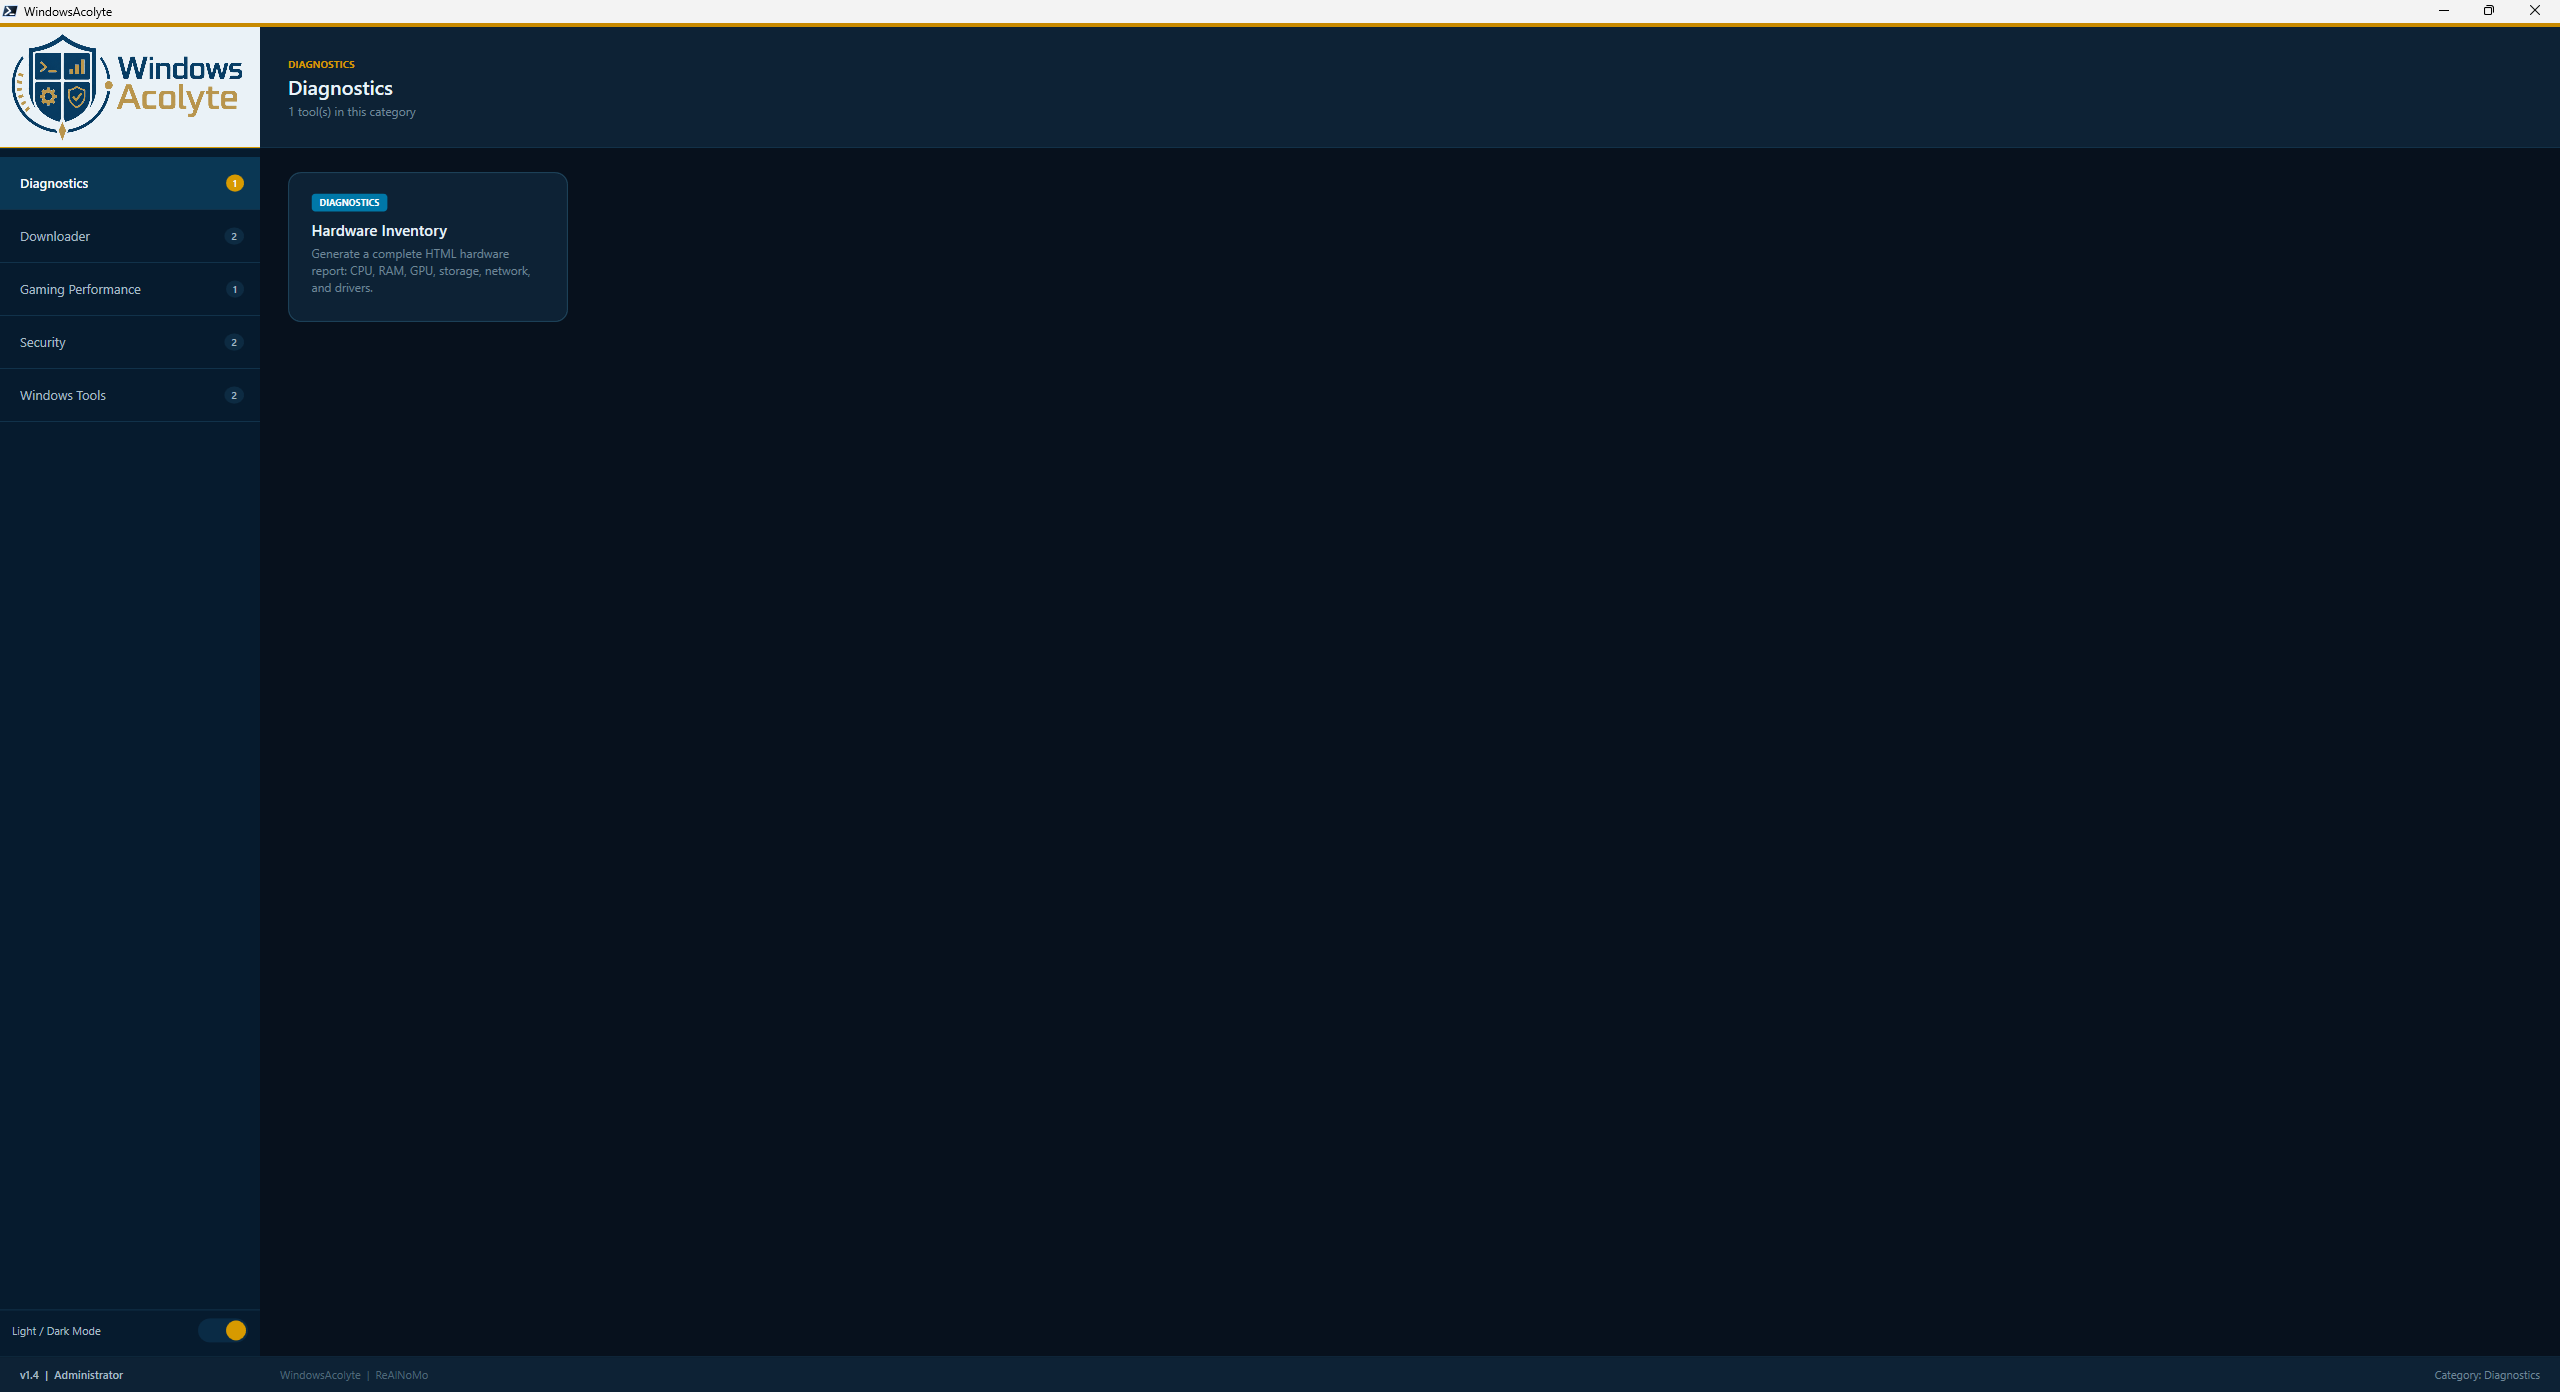
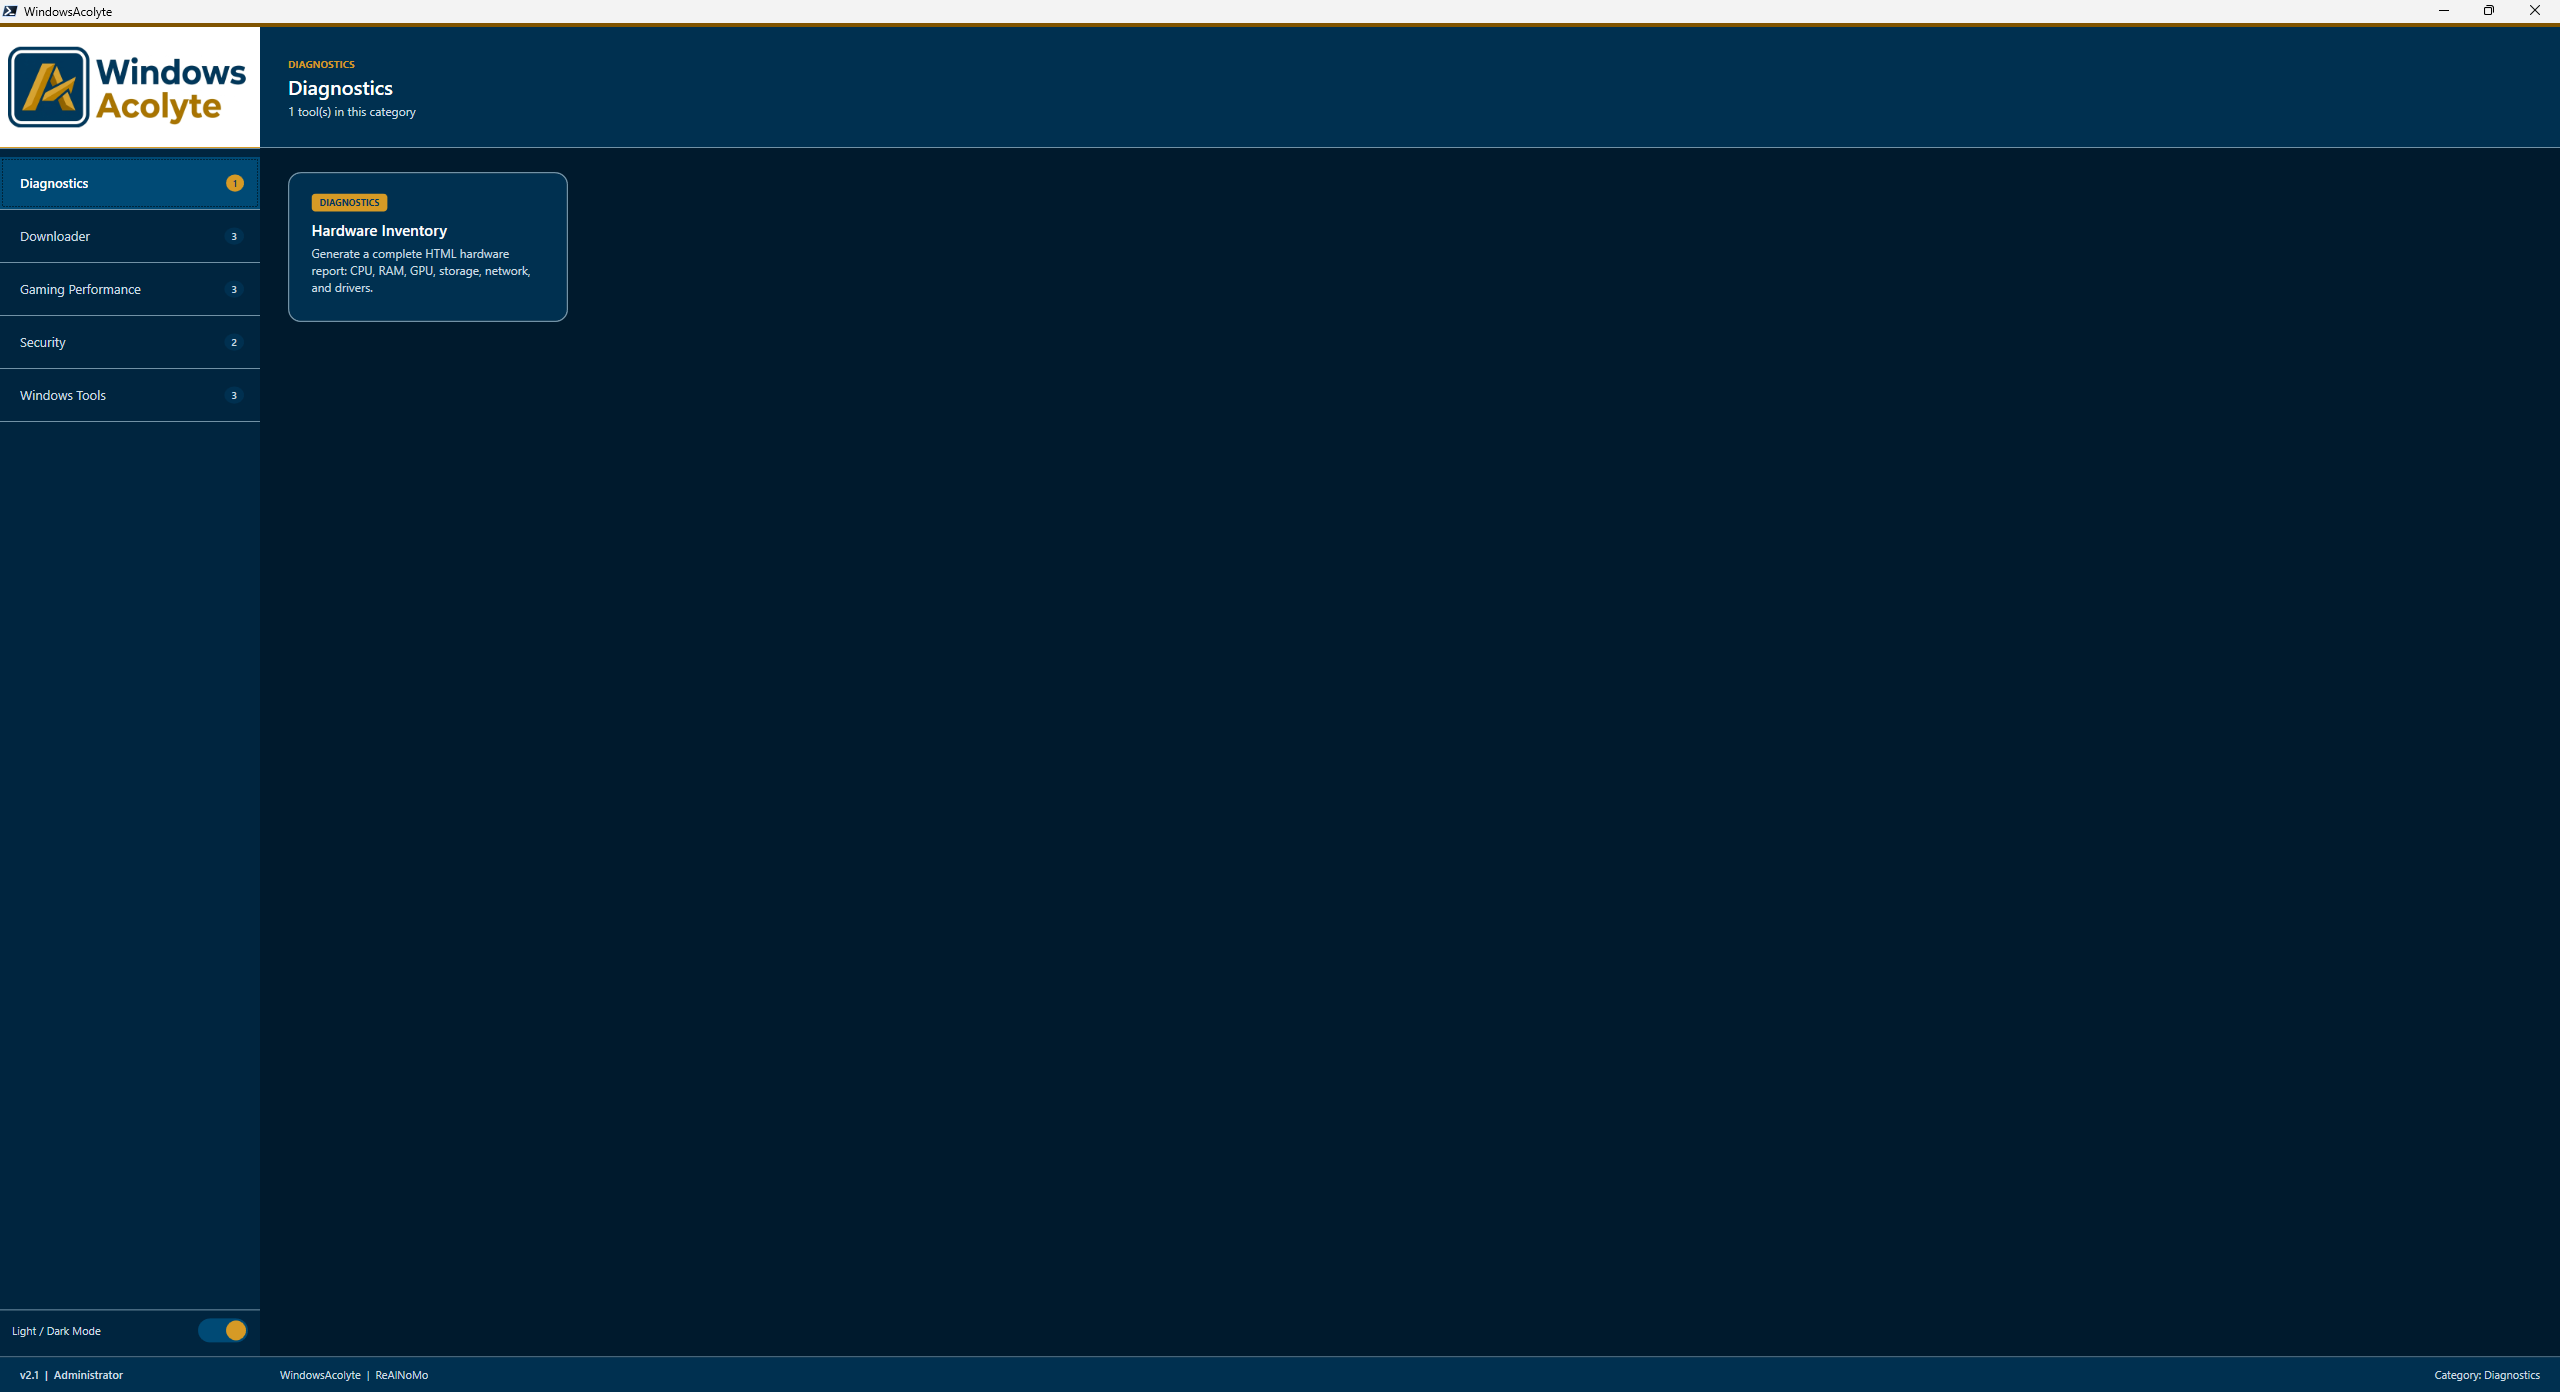
Correct module documentation and protect screenshot privacy

diff --git a/README.md b/README.md
@@ -63,11 +63,13 @@ Online sessions retain profiles, backups and logs in their persistent locations.
 | 🪟 Windows | 10 / 11 (WPF required) |
 | 🔐 Admin | The application requests administrator privileges at startup; Windows may show a UAC prompt. |
 
-**Current version:** `v2.1`
+**Current version:** `v2.1.1`
 
 ---
 
 # 🧰 Modules (12 Total)
+
+The application requests administrator privileges at startup. Module labels below indicate whether the module's operations themselves require elevation; they do not indicate that the app runs without elevation.
 
 ---
 
@@ -89,7 +91,7 @@ Online sessions retain profiles, backups and logs in their persistent locations.
 
 ## 🔒 1. Hash Verifier
 > **Category:** Security
-> **Admin:** ❌ No
+> **Module operations:** No additional administrator requirement; the app runs elevated.
 
 <img src="https://raw.githubusercontent.com/ReAlNoMo/WindowsAcolyte/main/screenshots/01-hash-verifier.png" alt="Hash Verifier module" width="720">
 
@@ -110,7 +112,6 @@ Online sessions retain profiles, backups and logs in their persistent locations.
 > **Category:** Windows Tools
 > **Admin:** ⚠ Yes
 
-<img src="https://raw.githubusercontent.com/ReAlNoMo/WindowsAcolyte/main/screenshots/02-explorer-view-normalizer.png" alt="Explorer View Normalizer module" width="720">
 
 ### ✔ What it does
 - Lets you compose global Explorer defaults using checkbox fields
@@ -130,7 +131,7 @@ Online sessions retain profiles, backups and logs in their persistent locations.
 - Disable Folder Type Discovery with `FolderType = NotSpecified`
 - Apply to all folder types (Generic, Downloads, Documents, Pictures, Music, Videos, UserFiles, Searches)
 - Clear Shell Bags, BagMRU, Desktop/Defaults Streams, and common Open/Save dialog view caches
-- Restart Explorer automatically
+- Optionally restart Explorer after applying settings
 - Apply now supports **apply + revert**: unchecked options are reverted when possible
 - Automatic recheck runs immediately after apply so new states are shown without manual refresh
 
@@ -164,7 +165,6 @@ HKCU:\Software\Microsoft\Windows\CurrentVersion\Explorer\Advanced
 > **Category:** Diagnostics
 > **Admin:** ⚠ Yes
 
-<img src="https://raw.githubusercontent.com/ReAlNoMo/WindowsAcolyte/main/screenshots/03-hardware-inventory.png" alt="Hardware Inventory module" width="720">
 
 ### ✔ What it does
 - System / Mainboard info (manufacturer, model, BIOS version and date)
@@ -174,7 +174,7 @@ HKCU:\Software\Microsoft\Windows\CurrentVersion\Explorer\Advanced
 - Storage drives and logical partitions (size, free space, file system)
 - Network adapters (MAC, driver, IP address)
 - Audio devices with driver info
-- Full PnP driver list (sortable by class and device name)
+- PnP driver list sorted by class and device name when the report is generated
 - Styled **HTML report** saved to the Desktop
 - Background processing with progress bar
 
@@ -185,7 +185,7 @@ Desktop\Hardware_Report_YYYY-MM-DD_HH-MM.html
 
 ### ✨ Features
 - Dark-themed HTML report
-- Sortable tables
+- Static tables; the driver list is sorted when generated
 - Activity log with timestamps
 - Re-open last report button
 - Concurrent background processing
@@ -196,9 +196,8 @@ Desktop\Hardware_Report_YYYY-MM-DD_HH-MM.html
 
 ## 🧱 4. Sandboxie Browser Launcher
 > **Category:** Security
-> **Admin:** ❌ No
+> **Module operations:** No additional administrator requirement; the app runs elevated.
 
-<img src="https://raw.githubusercontent.com/ReAlNoMo/WindowsAcolyte/main/screenshots/04-sandboxie-browser-launcher.png" alt="Sandboxie Browser Launcher module" width="720">
 
 ### ✔ What it does
 - Launch browsers sandboxed via Sandboxie-Plus
@@ -239,7 +238,6 @@ Desktop\Hardware_Report_YYYY-MM-DD_HH-MM.html
 > **Category:** Gaming Performance
 > **Admin:** ⚠ Yes
 
-<img src="https://raw.githubusercontent.com/ReAlNoMo/WindowsAcolyte/main/screenshots/05-gaming-optimizer.png" alt="Windows 11 Gaming Optimizer module" width="720">
 
 > 🚀 **35 selectable options**: 29 existing tweaks + 6 optional input/USB settings, with verified configuration readback. Additional controls offer custom desktop pointer speed and local Windows Update status.
 
@@ -407,8 +405,10 @@ Command semantics: [Microsoft fsutil behavior](https://learn.microsoft.com/en-us
 ---
 
 ## 🔧 Recommended Tools
+
+<img src="https://raw.githubusercontent.com/ReAlNoMo/WindowsAcolyte/main/screenshots/11-recommended-tools.png" alt="Recommended Tools module" width="720">
 > **Category:** Gaming Performance
-> **Admin:** No (individual external tools may require elevation)
+> **Module operations:** Opens external pages; the app runs elevated and individual external tools may require elevation.
 
 A gold warning panel labeled **EXTERNAL LINKS - LIABILITY NOTICE** appears above all recommendations in both Light and Dark modes. It explains that linked websites/downloads are third-party content, describes the limits of warranty/liability to the extent legally permitted, reminds users of destination-site privacy/usage terms and retains statutory liability and review/removal obligations. **Report a problematic link (GitHub Issues)** opens the project issue page without submitting anything automatically. Sensitive security reports should follow `SECURITY.md` instead of public issues.
 
@@ -441,7 +441,6 @@ Sources reviewed on 2026-10-26: [MSI](https://www.msi.com/Landing/afterburner/af
 > **Category:** Gaming Performance
 > **Admin:** ⚠ Yes
 
-<img src="https://raw.githubusercontent.com/ReAlNoMo/WindowsAcolyte/main/screenshots/10-ultimate-performance-power-plan.png" alt="Ultimate Performance Power Plan module" width="720">
 
 ### ✔ What it does
 - Creates a dedicated **WindowsAcolyte Ultimate Performance** power plan from the Windows Ultimate Performance template
@@ -463,9 +462,8 @@ Sources reviewed on 2026-10-26: [MSI](https://www.msi.com/Landing/afterburner/af
 
 ## 🐧 7. Linux ISO Downloader
 > **Category:** Downloader
-> **Admin:** ❌ No
+> **Module operations:** No additional administrator requirement; the app runs elevated.
 
-<img src="https://raw.githubusercontent.com/ReAlNoMo/WindowsAcolyte/main/screenshots/06-linux-iso-downloader.png" alt="Linux ISO Downloader module" width="720">
 
 ### ✔ What it does
 - Download latest ISOs from official sources
@@ -473,9 +471,9 @@ Sources reviewed on 2026-10-26: [MSI](https://www.msi.com/Landing/afterburner/af
 - Parent/child distro selection (main distro = all variants, sub-option = single variant)
 - Preset buttons for All, Only Server, and Only Desktop selections
 - Separate live progress row for every selected ISO
-- SHA256 verification (where available)
+- No automatic checksum verification; compare the downloaded ISO with a checksum from the distribution's official source using Hash Verifier
 - Auto mirror fallback
-- Resume / skip existing files
+- A new attempt starts a fresh download; interrupted downloads are not resumed
 - Background processing via ConcurrentQueue + DispatcherTimer
 
 ---
@@ -500,7 +498,7 @@ Sources reviewed on 2026-10-26: [MSI](https://www.msi.com/Landing/afterburner/af
 - Speed indicator (MB/s) and ETA
 - Queued/running/done/failed/cancelled state per ISO
 - Activity log dynamically resizes under the progress area
-- Resume / skip existing files
+- Retries and mirror fallback start a fresh download
 - Activity log
 - Mirror failover
 - Parallel download control
@@ -516,28 +514,29 @@ C:\Users\[CurrentUser]\Downloads\ISOs
 
 ## 🦠 8. AV Scanner Downloader
 > **Category:** Downloader
-> **Admin:** ❌ No
+> **Module operations:** No additional administrator requirement; the app runs elevated.
 
-<img src="https://raw.githubusercontent.com/ReAlNoMo/WindowsAcolyte/main/screenshots/07-av-scanner-downloader.png" alt="AV Scanner Downloader module" width="720">
 
 ### ✔ What it does
 - Download portable AV scanner tools from official vendor servers
 - Parallel downloads (1–4 concurrent)
 - Background processing via RunspacePool
 - Per-file progress tracking with speed and ETA
-- MD5/SHA256 verification (where available)
+- Checks minimum file size and the executable MZ header; it does not verify checksums or digital signatures
 - Live queue-based UI updates
 
 ---
 
 ### 📦 Supported Scanners
 
-| Scanner | Vendor | Portable | Verification |
-|---------|--------|----------|--------------|
-| EEK | Emsisoft | ✅ | ✅ MD5 |
-| KVRT | Kaspersky | ✅ | ✅ SHA256 |
-| AdwCleaner | Malwarebytes | ✅ | ❌ |
-| HouseCall | Trend Micro | ✅ | ✅ SHA256 |
+| Scanner | Vendor | Automatic checksum or signature verification |
+|---------|--------|-----------------------------------------------|
+| EEK | Emsisoft | No |
+| KVRT | Kaspersky | No |
+| AdwCleaner | Malwarebytes | No |
+| HouseCall | Trend Micro | No |
+
+Verify each download against an official publisher checksum or a trusted publisher signature before running it. The MZ header and file-size checks alone do not establish authenticity or integrity.
 
 ---
 
@@ -571,9 +570,8 @@ C:\Users\[CurrentUser]\Downloads\AVScanners
 
 ## 🖥 9. WindowsAcolyte Desktop Shortcut Creator
 > **Category:** Windows Tools
-> **Admin:** ❌ No
+> **Module operations:** No additional administrator requirement; the app runs elevated.
 
-<img src="https://raw.githubusercontent.com/ReAlNoMo/WindowsAcolyte/main/screenshots/08-desktop-shortcut-creator.png" alt="Desktop Shortcut Creator module" width="720">
 
 ### ✔ What it does
 - Creates WindowsAcolyte shortcuts on the current user's Desktop
@@ -600,9 +598,8 @@ C:\Users\[CurrentUser]\Downloads\AVScanners
 
 ## 🧯 10. Rescue ISO Downloader
 > **Category:** Downloader
-> **Admin:** ❌ No
+> **Module operations:** No additional administrator requirement; the app runs elevated.
 
-<img src="https://raw.githubusercontent.com/ReAlNoMo/WindowsAcolyte/main/screenshots/09-rescue-iso-downloader.png" alt="Rescue ISO Downloader module" width="720">
 
 ### ✔ What it does
 - Downloads current rescue, partitioning, cloning, malware cleanup, RAM test, wipe, and boot repair images
@@ -749,7 +746,11 @@ Register-PowerToolsModule `
 
 # 📋 Version History
 
-## v2.1 (Current) - 2026-11-09
+## v2.1.1 (Current) - 2026-11-09
+- Correct downloader verification claims and the Linux downloader description; checksum and signature verification remains a separate user action.
+- Clarify module elevation and Explorer restart behavior.
+
+## v2.1 (Previous) - 2026-11-09
 - Align Light and Dark themes and the hardware report with the navy and gold logo, with accessible contrast and clearly labeled status colors.
 - Keep open views and selections when switching themes.
 
@@ -855,7 +856,7 @@ MIT
 
 # 👤 Author
 **ReAlNoMo**
-Version 2.1 • November 2026
+Version 2.1.1 • November 2026
 
 ---
 

diff --git a/docs/README.md b/docs/README.md
@@ -1,6 +1,6 @@
 # WindowsAcolyte - Project Overview
 
-Current version: `v2.1` (2026-11-09).
+Current version: `v2.1.1` (2026-11-09).
 
 This overview accompanies the [main README](https://github.com/ReAlNoMo/WindowsAcolyte/blob/main/README.md). Paths below are relative to the Git repository root. The local workspace also keeps a matching copy of this overview one directory above the checkout.
 
@@ -24,6 +24,8 @@ WindowsAcolyte is a Windows PowerShell 7 + WPF desktop toolkit for administratio
 | Ultimate Performance Power Plan | Gaming Performance | Dedicated plan and explicit AC/DC processor, display and device settings |
 | Shortcut Arrow Visibility | Windows Tools | Overlay precheck, typed original-state backup, transparent ICO and restore |
 | Recommended Tools | Gaming Performance | Thirteen entries grouped into GPU/drivers, CPU/RAM, monitor/mouse, diagnostics, audio and Windows utilities; Equalizer APO + Peace has separate official project links |
+
+The Linux ISO downloader does not verify checksums or resume interrupted downloads. The AV scanner downloader checks the file size and MZ executable header, not a checksum or publisher signature. Verify downloads independently using official publisher checksums or signatures before use.
 
 The shell uses logo-aligned navy/gold Light and Dark themes with tonal backgrounds and labeled green/red status colors. Switching themes preserves the open view and selections; the hardware HTML report follows the same palette. The shell also supports category tiles, JSONL exception logging and an active-operation guard for downloads/hash/report work during theme changes, navigation and app close. Documentation screenshots may show an earlier version.
 

diff --git a/DISCLAIMER.md b/DISCLAIMER.md
@@ -175,7 +175,7 @@ Before applying advanced or high-risk changes, users are strongly encouraged to:
 ---
 
 **WindowsAcolyte**
-Version 2.1 • ReAlNoMo
+Version 2.1.1 • ReAlNoMo
 
 ## External links in Recommended Tools
 
